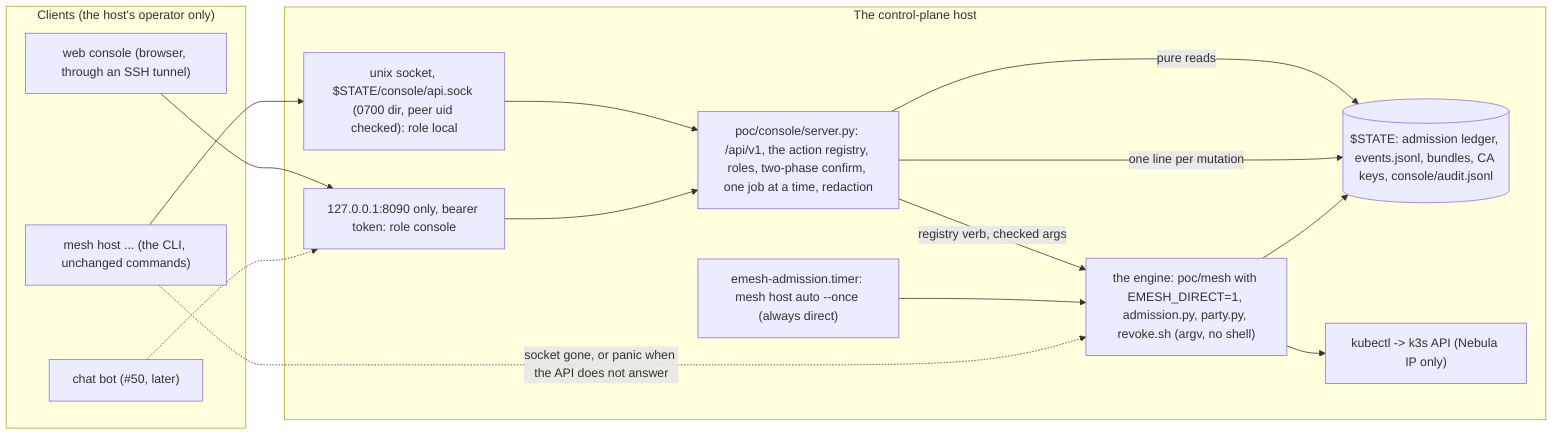
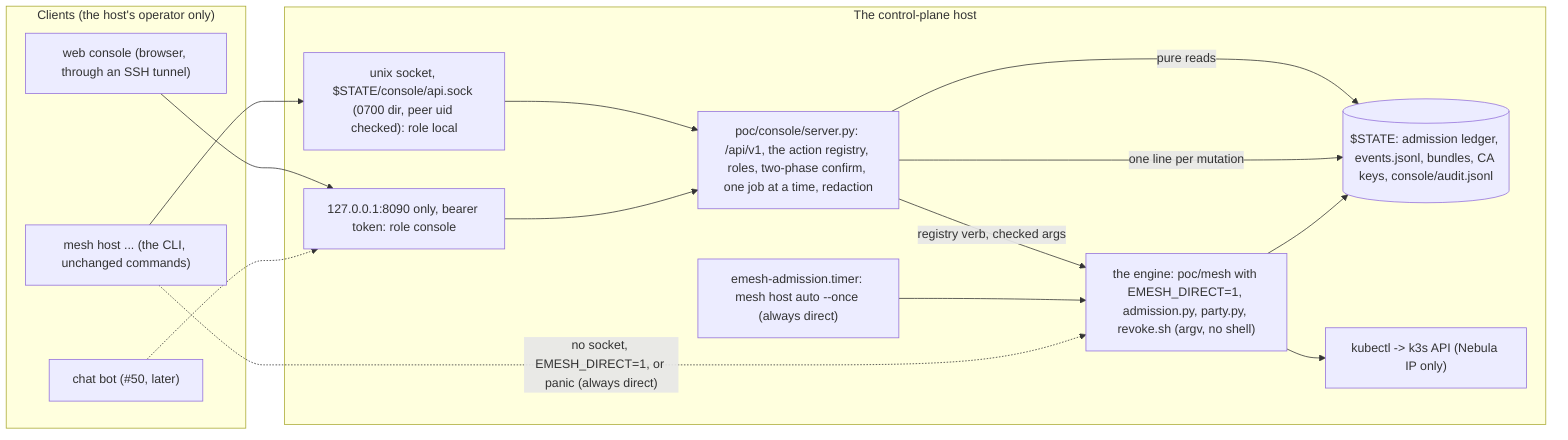
docs(console): the RFC after review - panic never waits, one engine lock, arg roles tested (#85)
From the review of PR #94: panic skips the daemon's queue, has no timeout and commits its switch
before its first kick (#87), and the CLI's panic is always direct; one flock taken by poc/mesh
around every mutating verb for the timer, the CLI and the daemon (#88), jobs queue like the CLI
waits; SIGTERM then SIGKILL after a timeout counted from the job's start; approve --trust friends
is local only through arg_roles, now tested; engine templates must be real mesh verbs; the console
verbs are in the table; token life, wrong-token lockout, confirm binding, audit writers, socket
path length, the daemon's environment; Status matches status --json.

Claude-Session: https://claude.ai/code/session_01QBT99AU8L3QCp4m2hqV5ff

diff --git a/tests/test_console_spec.py b/tests/test_console_spec.py
@@ -18,15 +18,15 @@ LOCAL_ONLY = {"invite", "bundle", "refresh"}          # a private key, the persi
 DANGEROUS = {"approve", "auto-on", "panic", "panic-clear", "reap-all", "reap-one", "kick", "revoke", "party-end"}
 
 
-def doc_rows() -> dict[str, tuple[str, str]]:
-    """API verb -> (confirm, roles) from the verb table of docs/CONSOLE.md (a cell like `kick`)."""
+def doc_rows() -> dict[str, list[tuple[str, str, str]]]:
+    """API verb -> [(confirm, roles, API cell)] from the verb table of docs/CONSOLE.md (a cell like `kick`)."""
     rows = {}
     for line in DOC.read_text(encoding="utf-8").splitlines():
         cells = [c.strip() for c in line.strip().strip("|").split("|")]
         if len(cells) == 6 and cells[0].startswith("`host "):
             m = re.fullmatch(r"`([a-z-]+)`(?: with .*)?", cells[3])
             if m:
-                rows.setdefault(m.group(1), []).append((cells[4], cells[5]))
+                rows.setdefault(m.group(1), []).append((cells[4], cells[5], cells[3]))
     return rows
 
 
@@ -50,15 +50,34 @@ class ConsoleSpecTest(unittest.TestCase):
             self.assertTrue(set(a["required"]) <= set(a["params"]), verb)
             for p in re.findall(r"\{(\w+)\}", a["engine"]):
                 self.assertIn(p, a["params"], f"{verb}: {p}")
-            self.assertGreater(a["timeout_seconds"], 0, verb)
+            if verb == "panic":
+                self.assertIsNone(a["timeout_seconds"])                 # panic is never killed half way
+            else:
+                self.assertGreater(a["timeout_seconds"], 0, verb)
+
+    def test_every_engine_template_is_a_real_mesh_verb(self):
+        mesh = (ROOT / "poc" / "mesh").read_text(encoding="utf-8")
+        verbs = set(re.findall(r'"host ([a-z-]+)"', mesh))
+        for verb, a in self.actions.items():
+            word = a["engine"].split()[2]
+            self.assertIn(word, verbs, f"{verb}: mesh host {word} is not a verb of poc/mesh")
 
     def test_console_role_never_signs_with_the_persistent_ca(self):
         for verb, a in self.actions.items():
             self.assertIn("local", a["roles"], verb)
             if verb in LOCAL_ONLY:
                 self.assertEqual(a["roles"], ["local"], verb)
-        for never in ("init", "down", "play"):
-            self.assertNotIn(never, self.actions)
+        for verb, a in self.actions.items():
+            for never in ("init", "down", "play", "console"):
+                self.assertNotIn(never, (verb, a["engine"].split()[2]))
+        # approve with trust friends signs with the persistent CA: local only, whatever the verb's own roles are
+        self.assertEqual(self.actions["approve"]["arg_roles"], {"trust": {"friends": ["local"]}})
+        self.assertEqual(self.actions["approve"]["params"]["trust"]["default"], "public")
+        for verb, a in self.actions.items():
+            for arg, values in a["arg_roles"].items():
+                self.assertIn(arg, a["params"], verb)
+                for roles in values.values():
+                    self.assertNotIn("console", roles, verb)
 
     def test_dangerous_verbs_are_confirmed(self):
         for verb, a in self.actions.items():
@@ -69,12 +88,14 @@ class ConsoleSpecTest(unittest.TestCase):
     def test_doc_table_matches_the_registry(self):
         rows = doc_rows()
         self.assertEqual(sorted(rows), sorted(self.actions))
+        self.assertEqual(len(rows["approve"]), 2)                   # public and friends
         words = {"none": "none", "click": "click", "type:name": "type the name", "type:all": "type `all`"}
         for verb, a in self.actions.items():
-            for confirm, roles in rows[verb]:
+            for confirm, roles, cell in rows[verb]:
                 self.assertEqual(confirm.split(" (")[0], words[a["confirm"]], verb)
-                if verb == "approve" and "local, console" not in roles:
-                    continue                                       # the friends row: local only, checked by the server per args
+                if "with `trust: friends`" in cell:                   # the row of an arg that narrows the roles (arg_roles)
+                    self.assertEqual([r.strip() for r in roles.split(",")], a["arg_roles"]["trust"]["friends"], verb)
+                    continue
                 self.assertEqual([r.strip() for r in roles.split(",")], a["roles"], verb)
 
 

diff --git a/docs/CONSOLE.md b/docs/CONSOLE.md
@@ -1,6 +1,7 @@
 # The host console: one local API, the CLI and a web console as its clients
 
-Status: **RFC, decided in [#85](https://github.com/villadalmine/k8s-lan-party/issues/85)** (milestone v0.4.0). Nothing in this file is built yet;
+Status: **RFC of [#85](https://github.com/villadalmine/k8s-lan-party/issues/85)** (milestone v0.4.0): proposed in PR #94, decided when it
+merges and the decision is recorded in #85. Nothing in this file is built yet;
 the pieces are [#86](https://github.com/villadalmine/k8s-lan-party/issues/86) (the daemon and its reads),
 [#87](https://github.com/villadalmine/k8s-lan-party/issues/87) (mutations, confirmation, jobs, audit),
 [#88](https://github.com/villadalmine/k8s-lan-party/issues/88) (the CLI as a client),
@@ -30,8 +31,12 @@ the web console is the second; the bot will be the third. The API adds no behavi
   stays the only thing on the internet, and it still holds no credential.
 - **Not a Kubernetes dashboard.** It shows the game (queue, leases, players, parties, events), not cluster objects, and it holds no kubeconfig
   of its own: only the engine calls `kubectl`, as it does today.
-- **Not in the safety path.** The tick timer keeps calling the engine directly, so lease expiry never depends on the daemon; `panic` from the
-  CLI falls back to the engine when the API does not answer.
+- **Not in the safety path.** The tick timer keeps calling the engine directly, so lease expiry never depends on the daemon; `mesh host
+  panic` from the CLI **always** runs the engine directly, never through the API; and through the API `panic` never waits behind another
+  job (below, "Jobs, locks and timeouts").
+- **One environment.** Once the CLI forwards to the daemon (#88), the engine runs with the daemon's environment (its systemd unit:
+  `POOL_CONFIG`, `TOKEN_TTL`, `REVOKE_WAIT`, `LH_RSH`, `ADMISSION_NOTIFY_*`), not the operator's shell's: the client sends argv only. A
+  variable set in the shell for one command then needs `EMESH_DIRECT=1` on that command; #88 lists the variables in the unit.
 - **The CA never moves.** The persistent CA key stays in `.state/ca/`, and no request from the web (role `console`) can make it sign.
 
 ![The host console: clients, the API, the engine and the state](diagrams/console.svg)
@@ -43,18 +48,29 @@ registry verbs through the engine and reads the state directly; the timer never 
 
 | Role | How a client gets it | Can run | Never |
 | :--- | :--- | :--- | :--- |
-| `local` | the unix socket `$STATE/console/api.sock`, in a 0700 directory, and the peer's uid (`SO_PEERCRED`) equal to the daemon's | the whole registry | what is not in the registry (below) |
+| `local` | the unix socket `$STATE/console/api.sock` (or `EMESH_CONSOLE_SOCK`), in a 0700 directory, and the peer's uid (`SO_PEERCRED`) equal to the daemon's | the whole registry | what is not in the registry (below) |
 | `console` | `127.0.0.1:8090` (or `[::1]`), `Authorization: Bearer <token>` | the registry minus the verbs marked local only | `approve --trust friends`, `invite`, `bundle`, `refresh` (the persistent CA, a private key, a running machine's config); init, down, lighthouse, page server, participants |
 
 The chat bot of #50 will be a `console` client with a token of its own; whether it gets a narrower role is decided there.
 
+**The socket.** A unix socket path has at most 107 bytes. With `EMESH_STATE` deep in a home directory `$STATE/console/api.sock` can be
+longer: the daemon then refuses to start (exit 2) and says to set `EMESH_CONSOLE_SOCK` (for example under `$XDG_RUNTIME_DIR`, which is 0700
+and the user's own); the CLI reads the same variable.
+
 **The web listener.** `mesh host console --web 127.0.0.1:8090`. The address must be a loopback address (`127.0.0.0/8` or `::1`); `0.0.0.0`,
 `::`, the Nebula IP, a LAN address or a name that resolves to one of them are refused at start (exit 2). The bearer token is 32 random bytes
 (base64url); the daemon keeps only its SHA-256 in `$STATE/console/web.token.sha256` (0600) and compares with `hmac.compare_digest`.
-`mesh host console url` makes a new token (the old one dies) and prints `http://127.0.0.1:8090/#t=<token>`: the token is in the fragment, so
-it never reaches a server log or a `Referer`; the page moves it into memory and removes it from the address bar. `mesh host console
-rotate-token` kills it without making a new link. 10 wrong tokens in 10 minutes give 429 to everyone on the web listener for 10 minutes (the
-socket is not affected, so the host is never locked out).
+
+The token's life: `mesh host console url` makes a new token (the old one dies at once) and prints it **once**, in a link
+`http://127.0.0.1:8090/#t=<token>`. "One-time" means the link: the token itself is a bearer token, valid until the next `url`,
+`rotate-token` or a restart of the daemon (a restart forgets nothing on disk but the daemon can no longer print it, so a new `url` is needed
+anyway). The fragment never reaches a server log or a `Referer`; the page moves the token into `sessionStorage` (a reload of the tab keeps
+working, closing the tab forgets it) and removes it from the address bar. `mesh host console rotate-token` kills it without a new link. The
+token never reaches the engine: not in its argv, not in its environment.
+
+Bad tokens: only a **wrong** token counts (a request with no `Authorization` header is a plain 401 and counts nothing, so a page that merely
+points at the loopback cannot lock the operator out). 10 wrong tokens in 10 minutes give 429 on the web listener for 10 minutes, the right
+token too; the socket is not affected, so `mesh host console rotate-token` always works.
 
 **From another machine** (the recipe, with a screenshot, lands with #89):
 
@@ -83,7 +99,7 @@ simulation of a player's machine, not host actions.
 | `host request <name>` | mutates | low | `request` | none | local, console |
 | `host reject <name>` | mutates | low | `reject` | none | local, console |
 | `host approve [<name>] --trust public` | mutates, signs with the pool CA | high: a stranger joins | `approve` | click | local, console |
-| `host approve ... --trust friends` | mutates, signs with the **persistent CA** | high | `approve` with `trust: friends` | click | local |
+| `host approve ... --trust friends` | mutates, signs with the **persistent CA** | high | `approve` with `trust: friends` (`x-actions`: `arg_roles`) | click | local |
 | `host auto --once` | mutates (the tick) | low: what the timer does every minute | `tick` | none | local, console |
 | `host auto on` | mutates | high: approvals without a human | `auto-on` | click | local, console |
 | `host auto off` | mutates | none: closing is always safe | `auto-off` | none | local, console |
@@ -104,6 +120,8 @@ simulation of a player's machine, not host actions.
 | `host init` | creates the CA, the lighthouse, the control plane | | **never**: the daemon lives in the state it creates | | |
 | `host down` | removes everything, the state too | | **never**: it would delete the daemon's own socket and audit | | |
 | `play`, `party ... --as` | local simulation | | **never** | | |
+| `host console [--web ADDR]` (new, #86) | runs the daemon | | **never**: it is the daemon | | |
+| `host console url`, `host console rotate-token` (new, #89) | write the web token's hash | | **never**: only on the host, direct, so a stolen token cannot mint the next one | | |
 
 Also never through the API: `poc/lighthouse-vps.sh` and `poc/page/page-server.sh` (they hold ssh commands to other servers),
 `poc/participants.py sync` (the persistent CA and the signed participant files), `poc/issue.sh`, `poc/up.sh` and `poc/down.sh`.
@@ -142,7 +160,8 @@ A verb whose *confirm* is not `none` runs in two calls:
 
 1. `POST /api/v1/actions/panic` with `{"args": {}}` runs nothing. It answers 200 with a **plan**: what will happen, in sentences, computed
    from pure reads (`panic`: "auto off; slots 0; expel 2 leases: alice (ends 14:05), bob (ends 14:40); empty the outbox"), and a `confirm`
-   token: 32 random bytes, valid **60 seconds, once**, bound to the verb, the args, the caller (role and peer) and a hash of the plan.
+   token: 32 random bytes, valid **60 seconds, once**, bound to the verb, the args, the caller's credential (the socket's uid, or the hash of
+   the web token in use: behind the SSH tunnel every web peer is 127.0.0.1, so the address would prove nothing) and a hash of the plan.
 2. The same call with `"confirm": "<token>"` (and for `type:*` also `"typed": "<the name>"` or `"typed": "all"`) starts the job. If the state
    changed since the plan (another lease, a lease gone) the plan's hash no longer matches: 409, and a new plan is needed.
 
@@ -154,19 +173,32 @@ exactly as today: the person who typed the command already confirmed it.
 
 - A mutation is a **job**: the engine started with `start_new_session` (its own process group), stdout and stderr captured (64 KiB at most),
   an id of 16 hex characters, kept for one hour in memory.
-- **One mutation at a time** through the API (a global lock): a second one gets 409 `busy`, never a queue. Against the timer the engine
-  already protects itself (the ledger's lock in admission.py, tested with 12 concurrent writers and 8 concurrent ticks); the daemon adds
-  nothing there.
-- Each verb has a **timeout** (`timeout_seconds` in the registry: 30 s for a switch, up to 900 s for `reap-all`). When it passes the whole
-  process group is killed and the job ends with exit 124, like `timeout(1)`.
+- **One lock, in the engine, for everybody.** Today only part of the engine is locked: admission.py holds a lock on its ledger
+  (`state.json`, tested with 12 concurrent writers and 8 concurrent ticks) and the node guard has its own, but `revoke.sh` (the blocklist,
+  each machine's `config.yml`) and `party.py reconcile` run unlocked, so a kick from the API could race a tick. #88 adds a file lock that
+  `poc/mesh` itself takes (`flock` on `$STATE/mesh.lock`) around every mutating verb, whoever calls it: the timer, the CLI direct, or a job of
+  the daemon. The daemon has no lock of its own besides that one.
+- **Jobs wait their turn, like the CLI does.** The daemon runs one job at a time, in order; while one runs, up to 4 more wait in a queue
+  (a fifth gets 409 `busy`). A job that waits behaves like a direct command waiting for the lock, so the CLI through the API keeps the same
+  output and exit code (#88); the client shows `waiting for <verb> (job ...)` on stderr while it waits.
+- **`panic` never waits behind a job.** It skips the daemon's queue and starts at once; it then waits only for the engine's lock, which a
+  tick or a kick holds for one pass. #87 also makes `panic` commit its switch (auto off, panic on: `auto.json` and the event) **before** its
+  first kick: today admission.py writes the ledger and the switch only at the end of the locked pass, so a `panic` killed half way would have
+  expelled people and still leave panic off.
+- Each verb has a **timeout** (`timeout_seconds` in the registry, counted from the moment the job starts, not while it waits: 120 s for a
+  switch, up to 900 s for `reap-all`). When it passes the process group gets SIGTERM, then SIGKILL 30 s later, and the job ends with exit
+  124, like `timeout(1)`. The engine's lock is a `flock` and dies with the process. `panic` has no timeout.
 - Rate limit on mutations: 30 a minute per role.
 
 ## Audit
 
 Every mutation writes one JSON line to `$STATE/console/audit.jsonl` (0600): time, source (`socket`, `web` or `direct`), role, peer uid,
 verb, args (free text cut to 200 characters), whether it was confirmed, exit code, duration, job id. **Through the API or direct**: with #88,
-`poc/mesh` writes the line itself for a registry verb run with `EMESH_DIRECT` set by a person (the tick does not write one: its facts are
-already in `admission/events.jsonl`, once a minute would drown the rest). The file is bounded (1 MiB, one old copy kept).
+`poc/mesh` writes the line itself for every registry verb it runs directly (source `direct`), and the daemon writes it for its jobs (source
+`socket` or `web`; the engine it starts does not write a second one). One verb is left out by its name, not by who ran it: `auto --once`, the
+tick, whose facts are already in `admission/events.jsonl` (a line a minute would drown the rest); a tick run from the console is the
+registry verb `tick` and is audited. Every writer appends one line with a single `O_APPEND` write, under `$STATE/mesh.lock`, which is also
+where the file is rotated (1 MiB, one old copy kept), so two writers never interleave or lose a line.
 
 A mutation by the `console` role also fires the admission notify hook (`ADMISSION_NOTIFY_CMD`, docs/ADMISSION.md) with the event
 `console_action` and a summary (`kick alice: exit 0`), so the host learns about a click from the web on the same channel as the pool's
@@ -181,12 +213,13 @@ Job output, audit lines, notify summaries and every response pass through one re
 | the value of `LH_RSH` (the ssh command to the external lighthouse) | `poc/revoke.sh` prints it in its warning when the sync fails | `<LH_RSH>` |
 | a PEM block (`-----BEGIN ...-----` to `-----END ...-----`) | a key or certificate printed by a tool | `<pem>` |
 | a k3s join token (`K10...::...`), a ServiceAccount token (`eyJ...`) | a kubeconfig or an error | `<token>` |
-| the page puller's token, the console's own token | environment, error messages | `<token>` |
+| the page puller's token (the daemon reads the file `$STATE/page/puller.token` at start and redacts its value) | environment, error messages | `<token>` |
 | a claim code of the page | puller output | `<code>` |
 | the state directory and any home directory | paths in messages | `<state>`, `~` (the same rule as `poc/page/whatsnew/showcase.py`) |
 
 Identities (a visitor's IP) are not redacted: the host sees them in `mesh host waitlist` today, and the console is the host. The notify hook
 keeps its own rule (no identity unless `ADMISSION_NOTIFY_IP=1`). #87 has a leak test that plants each of these in a fake engine's output.
+The console's own web token is not in this list because it never reaches the engine (above); the daemon keeps only its hash.
 
 ## Threats and their tests
 
@@ -200,23 +233,26 @@ issue that builds each test is in brackets.
 | 2 | another local user on the host uses the socket | 0700 directory, and the peer's uid (`SO_PEERCRED`) must be the daemon's, else the connection is closed | C02 [#86] |
 | 3 | DNS rebinding from the operator's browser (a site that resolves to 127.0.0.1) | `Host` must be `127.0.0.1:<port>`, `[::1]:<port>` or `localhost:<port>`; an `Origin`, when sent, must be the same; else 403 | C03 [#89] |
 | 4 | CSRF from another site in the same browser | a bearer header, never a cookie; JSON bodies only (a form cannot send them); no CORS headers, `OPTIONS` 405 | C04 [#89] |
-| 5 | the web token guessed, stolen or replayed | 256 bits; only its SHA-256 on disk; compared in constant time; in the link's fragment (no log, no `Referer`), then out of the address bar; `rotate-token`; 10 bad tokens: 429 for 10 minutes | C05 [#89] |
+| 5 | the web token guessed, stolen or replayed | 256 bits; only its SHA-256 on disk; compared in constant time; in the link's fragment (no log, no `Referer`), then out of the address bar; `rotate-token` (on the host only); 10 wrong tokens: 429 for 10 minutes, a missing one counts nothing | C05 [#89] |
 | 6 | XSS in the console through a player's name, a note, an event or job output | names are `[a-z][a-z0-9-]`, notes have no control characters; the page uses `textContent` only, one script of its own, page.py's CSP (`default-src 'none'`, no inline script, `frame-ancestors 'none'`) | C06 [#89] |
 | 7 | command injection through a verb's arguments | the registry has typed parameters; names match the engine's rule; the engine is an argument list, never a shell; hostile values (`;`, `$()`, backticks, newlines, `../`, `--flag`) refused before the engine and checked again by it; a mutation test (the call made with `shell=True`) fails the suite | C07 [#87] |
 | 8 | the web reaches the persistent CA or a private key | the role is checked on the server for every call: `console` cannot run `approve --trust friends`, `invite`, `bundle` or `refresh`, nor anything outside the registry | C08 [#87] |
 | 9 | an accidental or forced destructive click | two phases: a plan first, then a token bound to verb, args, caller and plan; 60 s, single use; the name typed for kick, revoke and reap | C09 [#87] |
 | 10 | a confirm token replayed, or used for something else | single use; bound to verb, args and caller; a different plan is 409 | C10 [#87] |
-| 11 | two mutations race | one global lock (409 busy); the engine's own ledger lock against the timer | C11 [#87] |
-| 12 | a hung engine call holds the lock forever | a timeout per verb; the process group is killed, exit 124, the lock is freed | C12 [#87] |
+| 11 | two mutations race (the API, the CLI direct and the timer) | one `flock` taken by `poc/mesh` around every mutating verb, whoever calls it; the daemon runs one job at a time | C11 [#87, #88] |
+| 12 | a hung engine call holds the lock forever | a timeout per verb from the job's start; SIGTERM then SIGKILL to the process group, exit 124; the `flock` dies with the process | C12 [#87] |
+| 12b | panic is slowed or lost: queued behind a long job, or killed half way | `panic` skips the daemon's queue and has no timeout; the CLI's `panic` is always direct; `panic` commits its switch before its first kick | C12b [#87, #88] |
 | 13 | a secret leaks through output, audit, notify or a response | the redaction step (above) on every path out; a leak test plants each secret | C13 [#86, #87] |
 | 14 | a read changes the game (a token burned, a party reconciled) | pure-read engine modes; a recording fake engine fails the test if a GET writes a file or runs a mutating `kubectl` | C14 [#86] |
-| 15 | the daemon is down when it matters | the timer calls the engine directly (expiry never needs the daemon); `mesh host panic` falls back to the engine when the API does not answer; the CLI works without the daemon | C15 [#88], K02: the timer expires a lease with the daemon stopped [#88] |
+| 15 | the daemon is down or busy when it matters | the timer calls the engine directly (expiry never needs the daemon); `mesh host panic` is always direct; the CLI works without the daemon (no socket: direct) | C15 [#88], K02: the timer expires a lease with the daemon stopped [#88] |
 | 16 | denial of service of the daemon | page.py's limits (body size, connections, read timeouts); 30 mutations a minute; the socket keeps working when the web listener is rate limited | C16 [#86] |
 | 17 | odd inputs | random bodies, values and paths against every route: no 5xx, the daemon keeps answering | C17 [#86, #87] |
 
 **What stays open (honest gaps).** Whoever has the operator's laptop with an open tunnel and the token has the `console` role until the token
 is rotated: it can kick, reap and panic, not sign. Anyone who is the host's user can edit `audit.jsonl`: it records, it does not prove. The
-console is as safe as the host's SSH; it adds no second factor.
+console is as safe as the host's SSH; it adds no second factor. The daemon runs as the host's user, the one that can read the CA key in
+`.state/ca/`: a bug in the daemon that let a request read a file would expose it. That is why the daemon is small, standard library only,
+reads only the files named here, and runs nothing outside the registry; the CA key is not one of the files it reads.
 
 ## Decisions (recorded in #85)
 
